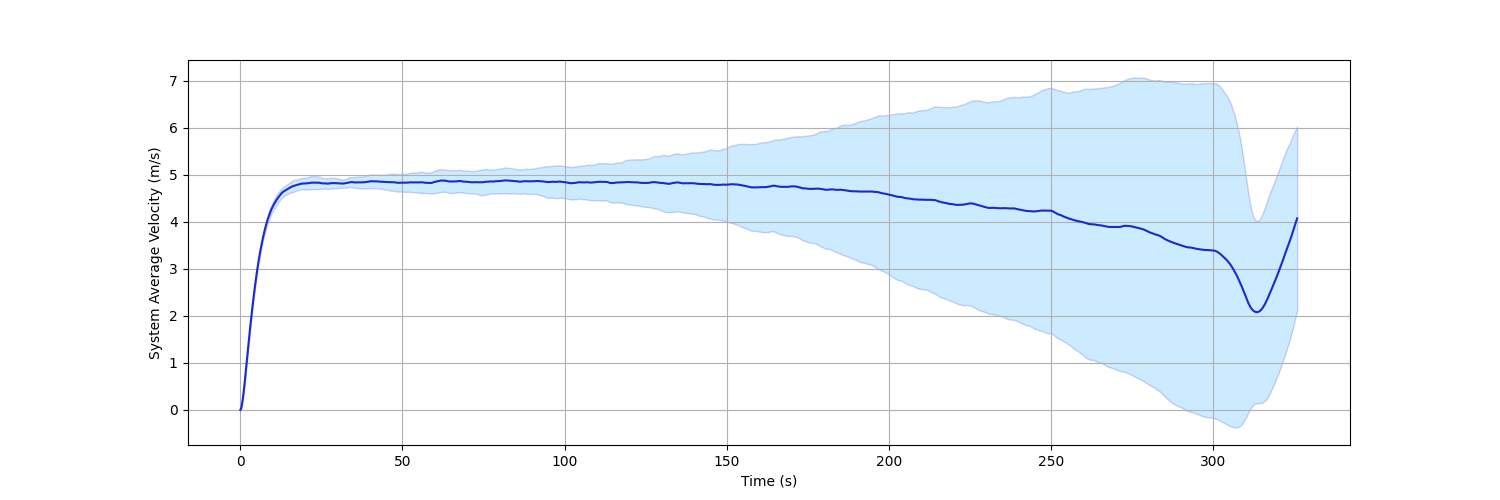
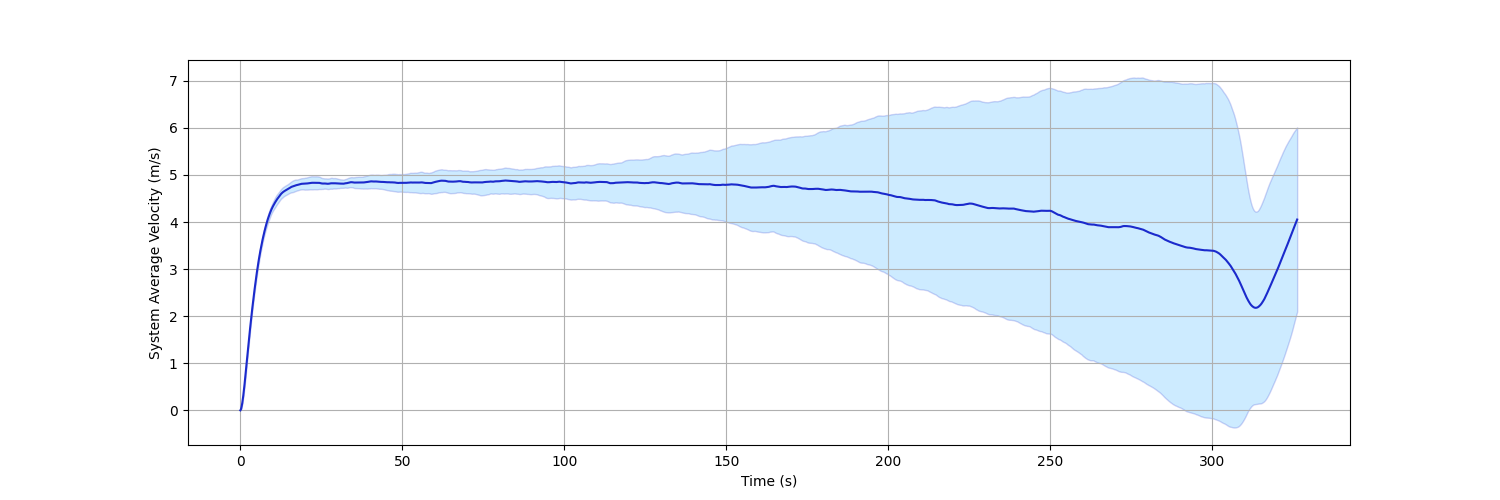
changing warmup steps

diff --git a/main.py b/main.py
@@ -17,7 +17,7 @@ def main():
         scripts.train_dqn.evaluate("/home/vamsi/Documents/GitHub/RingRoad-RL/Models/DQN/DQNTrainer_2022-03-03_19-28-07/DQNTrainer_ringroad-v1_f4621_00000_0_2022-03-03_19-28-08/checkpoint_000488/checkpoint-488")
 
     elif args.type == "eval_ppo":
-        scripts.train_ppo.evaluate("/home/vamsi/Documents/GitHub/RingRoad-RL/Models/PPO/SingleAgent/PPOTrainer_2022-07-13_22-22-39/PPOTrainer_ringroad-v1_344f2_00000_0_2022-07-13_22-22-39/checkpoint_000250/checkpoint-250")
+        scripts.train_ppo.evaluate("/home/vamsi/Documents/GitHub/RingRoad-RL/Models/PPO/SingleAgent/PPOTrainer_2022-07-14_12-10-22/PPOTrainer_ringroad-v1_d5e13_00000_0_2022-07-14_12-10-22/checkpoint_000250/checkpoint-250")
 
     elif args.type == "eval_idm":
         scripts.evaluate_idm.evaluate()

diff --git a/Ring_Road/constants.py b/Ring_Road/constants.py
@@ -70,7 +70,7 @@ REWARD_ALPHA = 0.1
 DISCOUNT_FACTOR = 0.99
 MAX_EPISODE_LENGTH = 3000
 EVAL_EPISODE_LENGTH = 6000
-WARMUP_STEPS = 1000
+WARMUP_STEPS = 3000
 AGENT_MAX_VELOCITY = 30
 ENV_VEHICLES = 21
 AGENTS = 1
